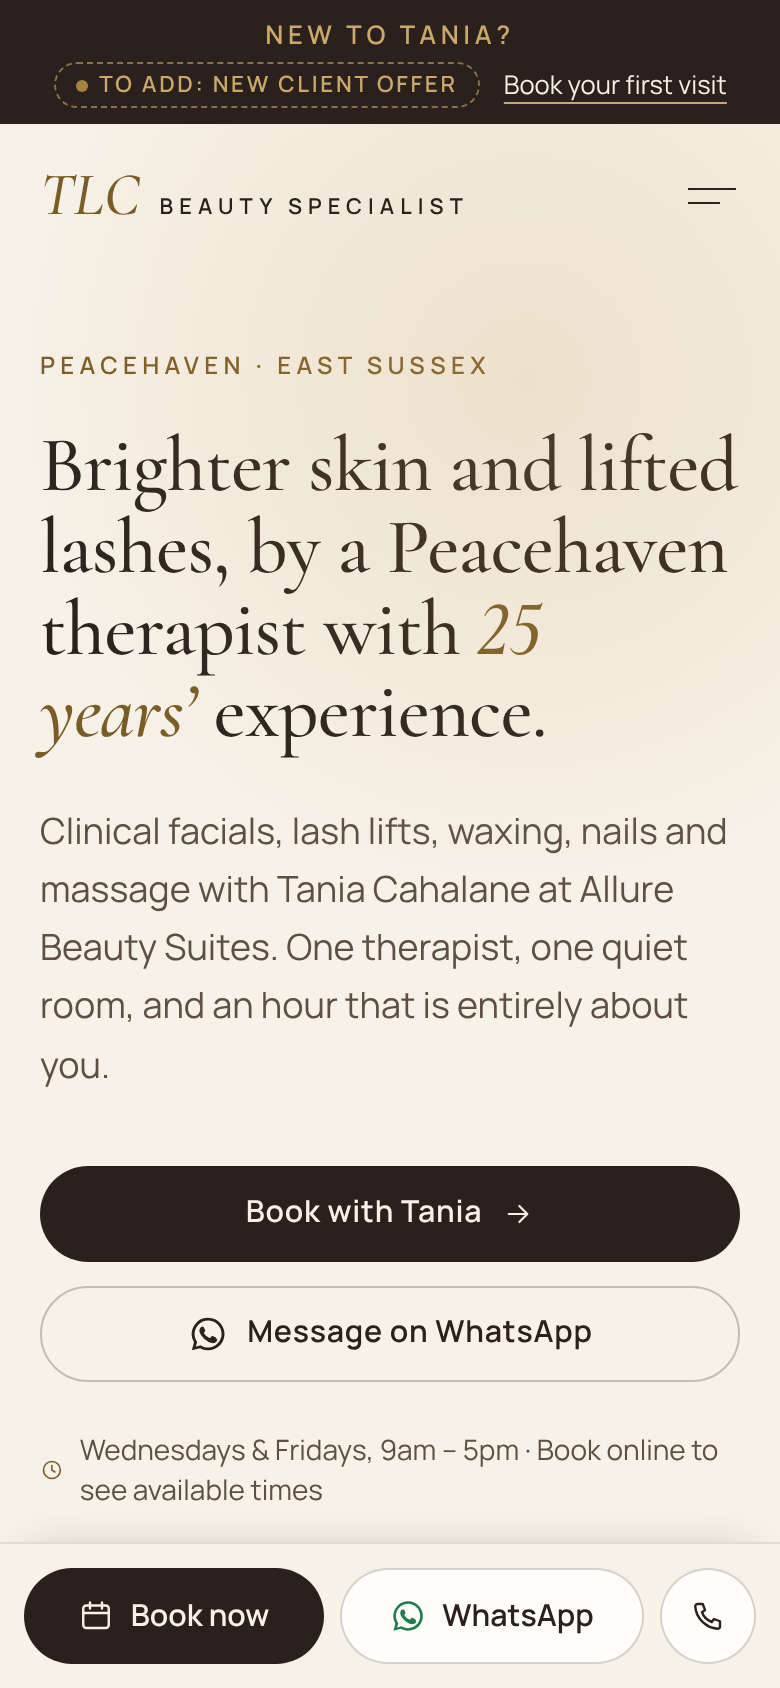
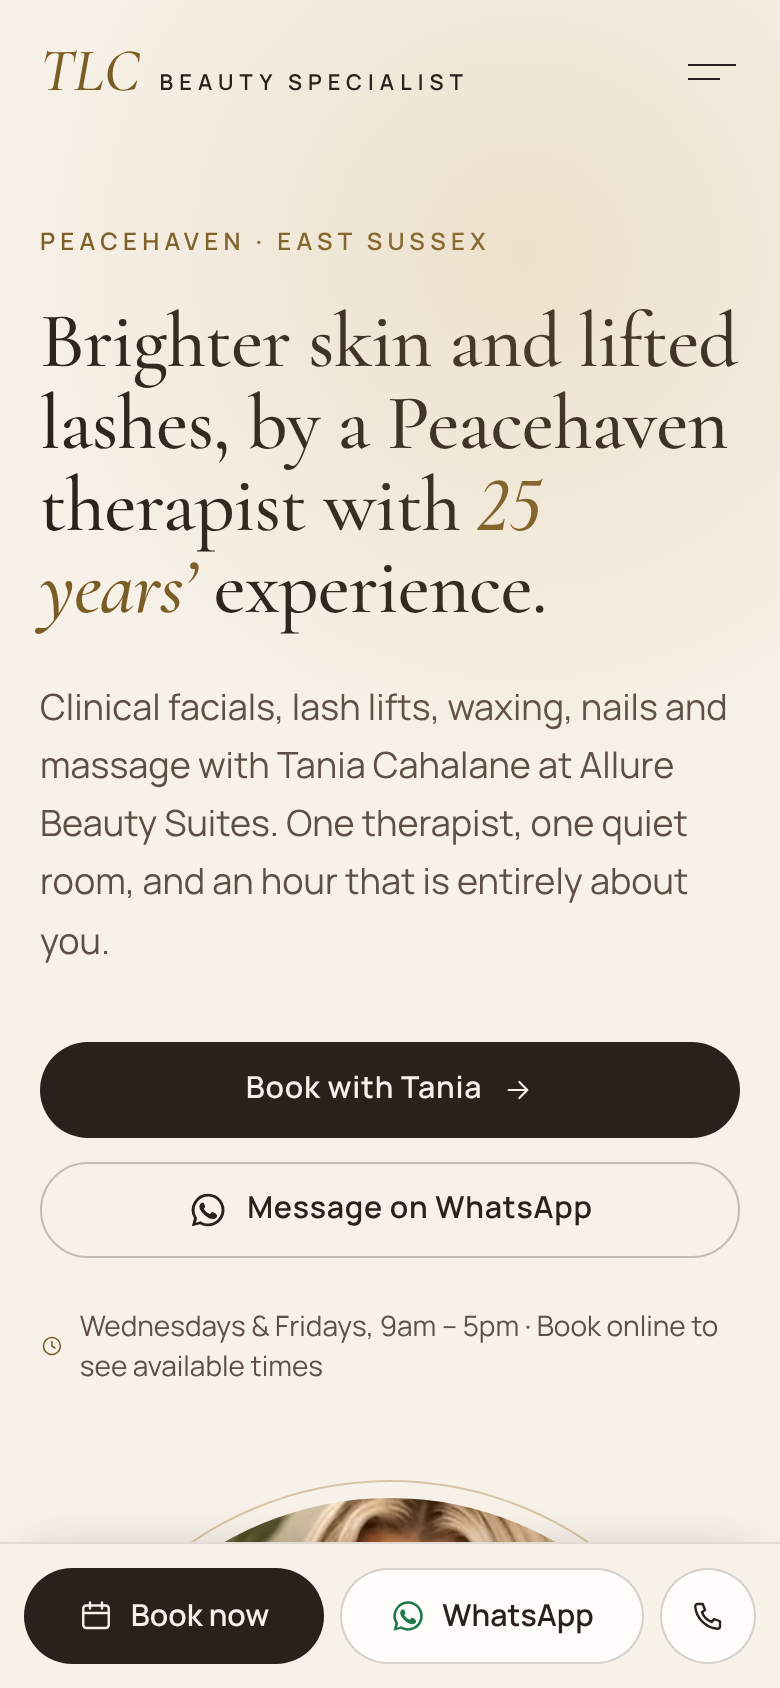
Hide all 'to add' markers so the live site looks finished
Missing details (offer, parking, vouchers, cancellation policy, rating,
reviews) now stay hidden until filled in; empty photo slots show a plain
TLC seal panel; the Reviews page and link appear once reviews exist.
README lists everything still to add.

Claude-Session: https://claude.ai/code/session_015VU8aU5H2cLtJb35rGdAGd

diff --git a/src/app/reviews/page.tsx b/src/app/reviews/page.tsx
@@ -4,8 +4,8 @@ import { FinalCta } from "@/components/home";
 import { IconStar } from "@/components/Icons";
 import { PageHero } from "@/components/PageHero";
 import { Reveal } from "@/components/Reveal";
-import { Todo } from "@/components/Todo";
-import { reviews } from "@/lib/reviews";
+import { redirect } from "next/navigation";
+import { hasReviews, reviews } from "@/lib/reviews";
 import { site } from "@/lib/site";
 
 export const metadata: Metadata = {
@@ -15,7 +15,8 @@ export const metadata: Metadata = {
 };
 
 export default function ReviewsPage() {
-  const items = reviews.length ? reviews : Array.from({ length: 6 }, () => null);
+  if (!hasReviews) redirect("/");
+  const items = reviews;
   return (
     <>
       <PageHero eyebrow="Reviews" title={<>In clients&rsquo; <em className="text-gold-ink">own words</em></>}>
@@ -24,43 +25,26 @@ export default function ReviewsPage() {
             <p className="text-lg">
               <strong>{site.rating.value.toFixed(1)}</strong> from {site.rating.count} reviews on {site.rating.source}
             </p>
-          ) : (
-            <Todo>star rating, review count &amp; source</Todo>
-          )}
+          ) : null}
           {site.googleReviewUrl ? (
             <a href={site.googleReviewUrl} target="_blank" rel="noopener" className="font-semibold underline underline-offset-4">
               Leave a review
             </a>
-          ) : (
-            <Todo>Google review link</Todo>
-          )}
+          ) : null}
         </div>
       </PageHero>
       <section className="section-y">
         <ul className="container-lux columns-1 gap-6 md:columns-2 lg:columns-3">
           {items.map((r, i) => (
             <Reveal as="li" key={i} delay={(i % 3) * 0.08} className="mb-6 break-inside-avoid rounded-[1.5rem] border border-gold/25 bg-ivory p-8">
-              <span className={`flex gap-1 ${r ? "text-gold" : "text-gold/30"}`} aria-hidden>
+              <span className="flex gap-1 text-gold" aria-hidden>
                 {Array.from({ length: 5 }).map((_, s) => (
                   <IconStar key={s} />
                 ))}
               </span>
-              {r ? (
-                <>
-                  <blockquote className="mt-5 font-display text-2xl leading-snug">&ldquo;{r.text}&rdquo;</blockquote>
-                  <p className="mt-5 text-sm font-semibold">{r.name}</p>
-                  {r.treatment && <p className="eyebrow mt-1 !text-[0.65rem]">{r.treatment}</p>}
-                </>
-              ) : (
-                <>
-                  <div className="mt-5 space-y-3" aria-hidden>
-                    <div className="h-3 rounded-full bg-sand" />
-                    <div className="h-3 w-11/12 rounded-full bg-sand" />
-                    <div className="h-3 w-3/4 rounded-full bg-sand" />
-                  </div>
-                  <Todo className="mt-6">real client review {i + 1}</Todo>
-                </>
-              )}
+              <blockquote className="mt-5 font-display text-2xl leading-snug">&ldquo;{r.text}&rdquo;</blockquote>
+              <p className="mt-5 text-sm font-semibold">{r.name}</p>
+              {r.treatment && <p className="eyebrow mt-1 !text-[0.65rem]">{r.treatment}</p>}
             </Reveal>
           ))}
         </ul>

diff --git a/src/components/home/ReviewsCarousel.tsx b/src/components/home/ReviewsCarousel.tsx
@@ -3,7 +3,6 @@
 import { useRef } from "react";
 import { reviews } from "@/lib/reviews";
 import { IconArrow, IconStar } from "../Icons";
-import { Todo } from "../Todo";
 
 export function ReviewsCarousel() {
   const track = useRef<HTMLUListElement>(null);
@@ -13,7 +12,7 @@ export function ReviewsCarousel() {
     el.scrollBy({ left: dir * el.clientWidth * 0.85, behavior: "smooth" });
   };
 
-  const items = reviews.length ? reviews : Array.from({ length: 4 }, () => null);
+  const items = reviews;
 
   return (
     <div>
@@ -23,27 +22,14 @@ export function ReviewsCarousel() {
             key={i}
             className="flex w-[85%] shrink-0 snap-start flex-col rounded-[1.5rem] border border-cream/10 bg-cream/[0.04] p-8 sm:w-[60%] lg:w-[calc((100%-2.5rem)/3)]"
           >
-            <span className={`flex gap-1 ${r ? "text-gold-soft" : "text-gold-soft/30"}`} aria-hidden>
+            <span className="flex gap-1 text-gold-soft" aria-hidden>
               {Array.from({ length: 5 }).map((_, s) => (
                 <IconStar key={s} />
               ))}
             </span>
-            {r ? (
-              <>
-                <blockquote className="mt-6 flex-1 font-display text-2xl leading-snug text-cream">&ldquo;{r.text}&rdquo;</blockquote>
-                <p className="mt-6 text-sm font-semibold text-cream">{r.name}</p>
-                {r.treatment && <p className="text-xs uppercase tracking-[0.14em] text-gold-soft">{r.treatment}</p>}
-              </>
-            ) : (
-              <>
-                <div className="mt-6 flex-1 space-y-3" aria-hidden>
-                  <div className="h-3 w-full rounded-full bg-cream/10" />
-                  <div className="h-3 w-11/12 rounded-full bg-cream/10" />
-                  <div className="h-3 w-4/5 rounded-full bg-cream/10" />
-                </div>
-                <Todo className="mt-8 self-start !border-gold-soft/50 !bg-transparent !text-gold-soft">real client review {i + 1}</Todo>
-              </>
-            )}
+            <blockquote className="mt-6 flex-1 font-display text-2xl leading-snug text-cream">&ldquo;{r.text}&rdquo;</blockquote>
+            <p className="mt-6 text-sm font-semibold text-cream">{r.name}</p>
+            {r.treatment && <p className="text-xs uppercase tracking-[0.14em] text-gold-soft">{r.treatment}</p>}
           </li>
         ))}
       </ul>

diff --git a/src/components/ImageSlot.tsx b/src/components/ImageSlot.tsx
@@ -1,5 +1,6 @@
 import Image from "next/image";
 import type { Slot } from "@/lib/images";
+import { Monogram } from "./Monogram";
 
 type Props = {
   slot: Slot;
@@ -25,18 +26,10 @@ export function ImageSlot({ slot, className = "", sizes = "(min-width: 1024px) 5
       : tint === "stone"
         ? "bg-[radial-gradient(120%_90%_at_30%_20%,#f3eadc_0%,#e3d6c3_80%)] text-gold-ink"
         : "bg-[radial-gradient(120%_90%_at_30%_20%,#fbf6ee_0%,#efe5d6_75%)] text-gold-ink";
+  // No photo yet: a quiet branded panel with the TLC seal.
   return (
-    <div role="img" aria-label={`Photo to add: ${slot.label}`} style={style} className={`${className.includes("absolute") ? "" : "relative "}overflow-hidden ${bg} ${className}`}>
-      <div aria-hidden className="absolute inset-0 bg-[repeating-linear-gradient(45deg,currentColor_0_0.6px,transparent_0.6px_10px)] opacity-[0.14]" />
-      <div className="absolute inset-3 flex flex-col items-center justify-center gap-2 rounded-[inherit] border border-dashed border-current/40 p-4 text-center">
-        <svg aria-hidden viewBox="0 0 24 24" className="size-6 opacity-70" fill="none" stroke="currentColor" strokeWidth="1.4">
-          <rect x="3" y="5" width="18" height="14" rx="2" />
-          <circle cx="12" cy="12" r="3.5" />
-          <path d="M8 5l1.5-2h5L16 5" />
-        </svg>
-        <span className="text-[0.65rem] font-semibold uppercase tracking-[0.2em]">Photo to add</span>
-        <span className="font-display text-lg italic leading-tight">{slot.label}</span>
-      </div>
+    <div aria-hidden style={style} className={`${className.includes("absolute") ? "" : "relative "}flex items-center justify-center overflow-hidden ${bg} ${className}`}>
+      <Monogram className="size-28 opacity-35" tone={tint === "espresso" ? "cream" : "gold"} decorative />
     </div>
   );
 }

diff --git a/src/components/home/Faq.tsx b/src/components/home/Faq.tsx
@@ -1,7 +1,6 @@
 import { faqs } from "@/lib/faqs";
 import { Reveal } from "../Reveal";
 import { SectionHeading } from "../SectionHeading";
-import { Todo } from "../Todo";
 
 export function Faq() {
   return (
@@ -10,7 +9,7 @@ export function Faq() {
         <SectionHeading align="left" eyebrow="Questions" title={<>Good to <em className="text-gold-ink">know</em></>} intro="Anything else? Message Tania on WhatsApp and she'll reply personally." />
         <Reveal>
           <div className="divide-y divide-espresso/10 border-y border-espresso/10">
-            {faqs.map((f) => (
+            {faqs.filter((f) => f.a).map((f) => (
               <details key={f.q} className="group py-2">
                 <summary className="flex min-h-14 cursor-pointer list-none items-center justify-between gap-6 py-3 text-lg font-semibold [&::-webkit-details-marker]:hidden">
                   {f.q}
@@ -19,7 +18,7 @@ export function Faq() {
                     <span className="absolute left-0 top-1/2 h-px w-4 rotate-90 bg-gold-ink transition-transform duration-300 group-open:rotate-0" />
                   </span>
                 </summary>
-                <div className="pb-5 pr-10 leading-relaxed text-cocoa">{f.a ?? <Todo>{f.todo}</Todo>}</div>
+                <div className="pb-5 pr-10 leading-relaxed text-cocoa">{f.a}</div>
               </details>
             ))}
           </div>

diff --git a/src/components/home/TrustBar.tsx b/src/components/home/TrustBar.tsx
@@ -1,12 +1,11 @@
 import { site } from "@/lib/site";
 import { IconStar } from "../Icons";
-import { Todo } from "../Todo";
 
 export function TrustBar() {
   const items = [
     { big: "NVQ 2 & 3", small: "Fully qualified therapist" },
     { big: "25+ years", small: "Experience in beauty" },
-    { big: "rating", small: "" },
+    site.rating ? { big: "rating", small: "" } : { big: "Clinicare", small: "Clinical skincare" },
     { big: "One-to-one", small: "Private suite in Peacehaven" },
   ];
   return (
@@ -30,16 +29,7 @@ export function TrustBar() {
                   </span>
                   <span className="text-xs uppercase tracking-[0.14em] text-cocoa">{site.rating.source}</span>
                 </>
-              ) : (
-                <>
-                  <span className="flex items-center gap-1 text-gold/50" aria-hidden>
-                    {Array.from({ length: 5 }).map((_, s) => (
-                      <IconStar key={s} />
-                    ))}
-                  </span>
-                  <Todo>Google rating</Todo>
-                </>
-              )
+              ) : null
             ) : (
               <>
                 <span className="h-display text-[1.75rem] sm:text-3xl">{item.big}</span>

diff --git a/src/components/home/Reviews.tsx b/src/components/home/Reviews.tsx
@@ -2,7 +2,6 @@ import Link from "next/link";
 import { site } from "@/lib/site";
 import { Reveal } from "../Reveal";
 import { SectionHeading } from "../SectionHeading";
-import { Todo } from "../Todo";
 import { ReviewsCarousel } from "./ReviewsCarousel";
 
 export function Reviews() {
@@ -12,12 +11,10 @@ export function Reviews() {
         <div className="flex flex-col gap-8 lg:flex-row lg:items-end lg:justify-between">
           <SectionHeading align="left" tone="light" eyebrow="What clients say" title={<>Kind words from <em className="text-gold-soft">the chair</em></>} />
           <Reveal className="text-sm text-cream/75">
-            {site.rating ? (
+            {site.rating && (
               <p>
                 Rated {site.rating.value.toFixed(1)} from {site.rating.count} reviews on {site.rating.source}
               </p>
-            ) : (
-              <Todo className="!border-gold-soft/50 !bg-transparent !text-gold-soft">rating summary</Todo>
             )}
             <Link href="/reviews" className="mt-3 block font-semibold text-gold-soft underline underline-offset-4">
               Read all reviews

diff --git a/src/components/home/GiftVouchers.tsx b/src/components/home/GiftVouchers.tsx
@@ -4,7 +4,6 @@ import { WhatsAppButton } from "../Buttons";
 import { IconGift } from "../Icons";
 import { ImageSlot } from "../ImageSlot";
 import { Reveal } from "../Reveal";
-import { Todo } from "../Todo";
 
 export function GiftVouchers() {
   return (
@@ -23,9 +22,7 @@ export function GiftVouchers() {
             <p className="mt-5 text-lg leading-relaxed text-cocoa">
               Vouchers for any treatment or amount. Perfect for birthdays, Mother&rsquo;s Day, or a thank-you that actually gets used.
             </p>
-            <div className="mt-6">
-              {site.giftVouchers ? <p className="text-cocoa">{site.giftVouchers}</p> : <Todo>how vouchers are bought &amp; delivered</Todo>}
-            </div>
+            {site.giftVouchers && <p className="mt-6 text-cocoa">{site.giftVouchers}</p>}
             <WhatsAppButton className="mt-8" variant="dark" text="Hi Tania, I'd like to buy a gift voucher.">
               Ask Tania for a voucher
             </WhatsAppButton>

diff --git a/src/app/contact/page.tsx b/src/app/contact/page.tsx
@@ -3,7 +3,6 @@ import { BookButton, WhatsAppButton } from "@/components/Buttons";
 import { IconClock, IconPhone, IconPin } from "@/components/Icons";
 import { PageHero } from "@/components/PageHero";
 import { Reveal } from "@/components/Reveal";
-import { Todo } from "@/components/Todo";
 import { site } from "@/lib/site";
 
 export const metadata: Metadata = {
@@ -44,9 +43,7 @@ export default function ContactPage() {
                 <a href={site.mapLink} target="_blank" rel="noopener" className="mt-2 inline-block font-semibold underline underline-offset-4">
                   Get directions
                 </a>
-                <div className="mt-4">
-                  {site.parking ? <p className="text-cocoa">{site.parking}</p> : <Todo>parking details</Todo>}
-                </div>
+                {site.parking && <p className="mt-4 text-cocoa">{site.parking}</p>}
               </div>
             </div>
             <div className="flex gap-4">

diff --git a/src/components/OfferBanner.tsx b/src/components/OfferBanner.tsx
@@ -1,16 +1,12 @@
 import { site } from "@/lib/site";
-import { Todo } from "./Todo";
 
 export function OfferBanner() {
+  if (!site.newClientOffer) return null;
   return (
     <div className="bg-espresso text-cream">
       <div className="container-lux flex min-h-10 flex-wrap items-center justify-center gap-x-3 gap-y-1 py-2 text-center text-[0.8rem]">
         <span className="font-semibold uppercase tracking-[0.18em] text-gold-soft">New to Tania?</span>
-        {site.newClientOffer ? (
-          <span>{site.newClientOffer}</span>
-        ) : (
-          <Todo className="!border-gold-soft/60 !bg-transparent !text-gold-soft">new client offer</Todo>
-        )}
+        <span>{site.newClientOffer}</span>
         <a href={site.bookingUrl} target="_blank" rel="noopener" className="underline decoration-gold-soft underline-offset-4 hover:text-gold-soft">
           Book your first visit
         </a>

diff --git a/src/components/Monogram.tsx b/src/components/Monogram.tsx
@@ -1,8 +1,8 @@
 // The site's signature mark: a round "TLC" seal with the trading name set around it.
-export function Monogram({ className = "size-28", tone = "gold" }: { className?: string; tone?: "gold" | "cream" }) {
+export function Monogram({ className = "size-28", tone = "gold", decorative = false }: { className?: string; tone?: "gold" | "cream"; decorative?: boolean }) {
   const color = tone === "gold" ? "var(--color-gold)" : "var(--color-gold-soft)";
   return (
-    <svg viewBox="0 0 200 200" className={className} role="img" aria-label="TLC Beauty Specialist seal">
+    <svg viewBox="0 0 200 200" className={className} {...(decorative ? { "aria-hidden": true } : { role: "img", "aria-label": "TLC Beauty Specialist seal" })}>
       <defs>
         <path id="seal-ring" d="M100,100 m-74,0 a74,74 0 1,1 148,0 a74,74 0 1,1 -148,0" />
       </defs>

diff --git a/src/app/gallery/page.tsx b/src/app/gallery/page.tsx
@@ -25,7 +25,7 @@ export default function GalleryPage() {
       <section className="section-y">
         <div className="container-lux">
           <ul className="columns-1 gap-5 sm:columns-2 lg:columns-3">
-            {images.gallery.map((img, i) => (
+            {images.gallery.filter((img) => img.src).map((img, i) => (
               <Reveal as="li" key={i} delay={(i % 3) * 0.08} className="mb-5 break-inside-avoid">
                 <figure>
                   <ImageSlot slot={img} style={img.ratio ? { aspectRatio: img.ratio } : undefined} className={`rounded-[1.5rem] ${img.ratio ? "" : i % 3 === 1 ? "aspect-[3/4]" : i % 3 === 2 ? "aspect-square" : "aspect-[4/5]"}`} sizes="(min-width: 1024px) 33vw, (min-width: 640px) 50vw, 100vw" tint={i % 2 ? "stone" : "sand"} />

diff --git a/src/components/home/Instagram.tsx b/src/components/home/Instagram.tsx
@@ -23,7 +23,7 @@ export function Instagram() {
           </a>
         </Reveal>
         <ul className="mt-10 grid grid-cols-3 gap-2 sm:gap-4 lg:grid-cols-6">
-          {images.gallery.slice(0, 6).map((img, i) => (
+          {[...images.gallery.filter((img) => img.src), images.heroTania].slice(0, 6).map((img, i) => (
             <Reveal as="li" key={i} delay={i * 0.05}>
               <a href={site.instagramUrl} target="_blank" rel="noopener" aria-label={`${img.label} on Instagram`} className="block overflow-hidden rounded-2xl">
                 <ImageSlot slot={img} className="aspect-square transition-transform duration-700 ease-lux hover:scale-[1.04]" sizes="(min-width: 1024px) 16vw, 33vw" tint={i % 2 ? "stone" : "sand"} />
